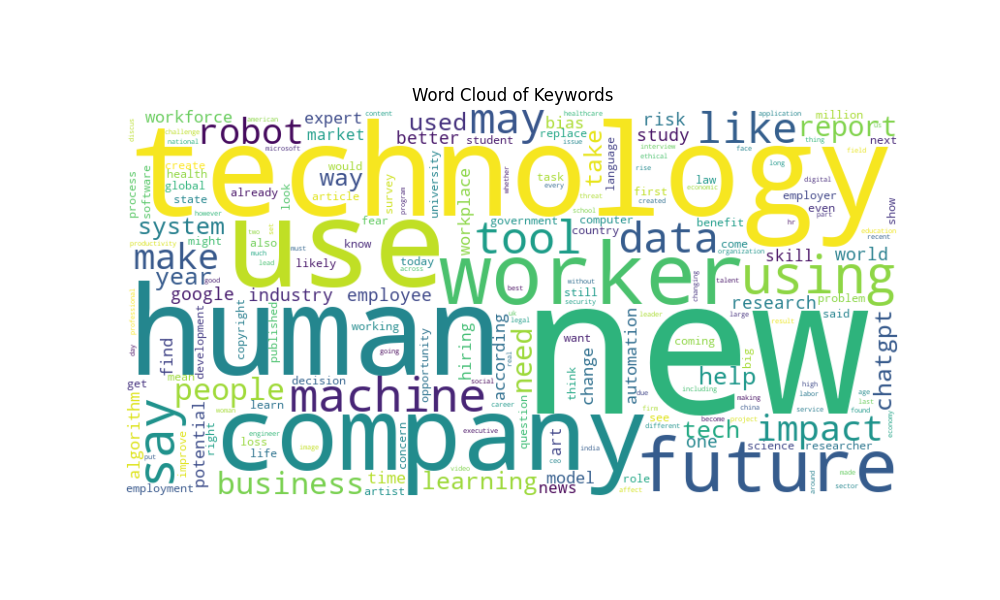
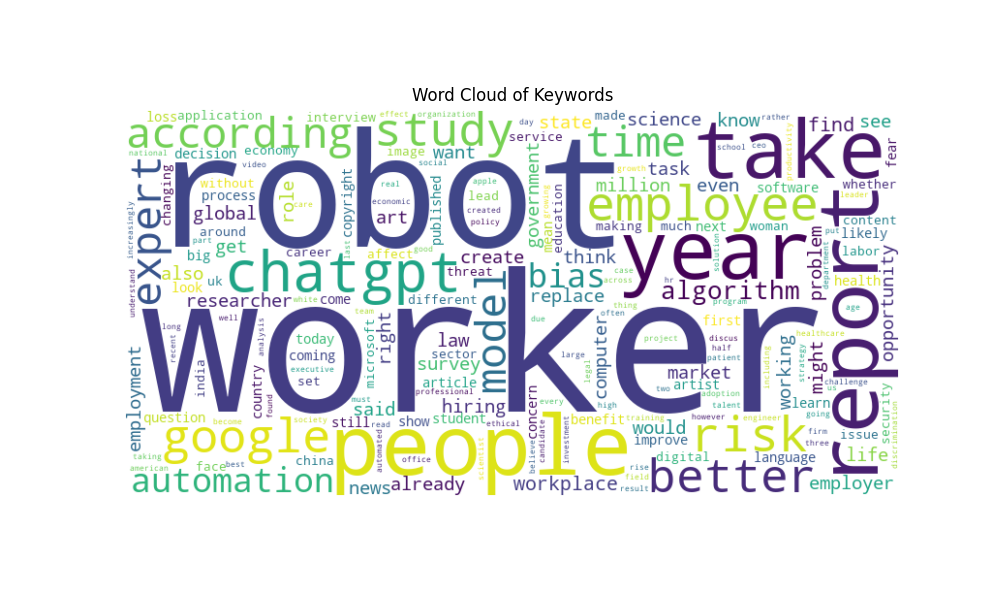
new visuals

diff --git a/AEI AI Sentiment Analysis/Keyword Visualization by Sentiment.py b/AEI AI Sentiment Analysis/Keyword Visualization by Sentiment.py
@@ -3,50 +3,13 @@
 import os
 import pandas as pd
 from LanguageAnalyzer import keywordExtractor
+from collections import Counter
 
 # visualization for flair:
 
-# keywordextractor = keywordExtractor()
-# 
-# Directory = 'flair-sentiment-en'
-# 
-# files = []
-# for file in os.listdir(Directory):
-#     if file.endswith('.csv'):
-#         file_path = os.path.join(Directory,file)
-#         files.append(file_path)
-# 
-# sorted_files = sorted(files)
-# 
-# # conducting keyword analysis
-# 
-# # compiling articles according to sentiment
-# compiled_positive_list = []
-# compiled_negative_list = []
-# 
-# for file in sorted_files:
-#     df = pd.read_csv(file)
-#     positive_article_list = []
-#     negative_article_list = []
-#     for row in df.iterrows():
-#         if row[1]['Sentiment'] == 'positive':
-#             positive_article_list.append(str(row[1]['Preprocessed Text']))
-#         else:
-#             negative_article_list.append(str(row[1]['Preprocessed Text']))
-#     compiled_positive_list.extend(positive_article_list)
-#     compiled_negative_list.extend(negative_article_list)
-# 
-# exclude_phrase = ['artificial intelligence', 'ai', 'u', 'artificial', 'intelligence', 'generative', 'work','job', 'nan', 'could', 'many']
-# positive_graph = '/Users/LindaSong/Desktop/AI-workforce-Sentiment-Semantic-Analysis/keyword by sentiment/flair positive.png'
-# negative_graph = '/Users/LindaSong/Desktop/AI-workforce-Sentiment-Semantic-Analysis/keyword by sentiment/flair negative.png'
-# keywordextractor.visualize_key_concept_sklearn_2(compiled_positive_list, exclude_phrase, positive_graph)
-# keywordextractor.visualize_key_concept_sklearn_2(compiled_negative_list, exclude_phrase, negative_graph)
-
-
-# spacy:
 keywordextractor = keywordExtractor()
 
-Directory = 'ex-sentiment-en'
+Directory = 'flair-sentiment-en'
 
 files = []
 for file in os.listdir(Directory):
@@ -61,28 +24,72 @@ sorted_files = sorted(files)
 # compiling articles according to sentiment
 compiled_positive_list = []
 compiled_negative_list = []
-compiled_neutral_list = []
+overall_keyword_freq = Counter()
 
 for file in sorted_files:
     df = pd.read_csv(file)
     positive_article_list = []
     negative_article_list = []
-    neutral_article_list = []
     for row in df.iterrows():
         if row[1]['Sentiment'] == 'positive':
             positive_article_list.append(str(row[1]['Preprocessed Text']))
-        elif row[1]['Sentiment'] == 'negative':
-            negative_article_list.append(str(row[1]['Preprocessed Text']))
         else:
-            neutral_article_list.append(str(row[1]['Preprocessed Text']))
+            negative_article_list.append(str(row[1]['Preprocessed Text']))
     compiled_positive_list.extend(positive_article_list)
     compiled_negative_list.extend(negative_article_list)
-    compiled_neutral_list.extend(neutral_article_list)
+    for article in df['Preprocessed Text'].astype(str):
+      overall_keyword_freq.update(article.split())
 
-exclude_phrase = ['artificial intelligence', 'ai', 'u', 'artificial', 'intelligence', 'generative', 'work','job', 'nan', 'could', 'many', 'use','way']
-positive_graph = '/Users/LindaSong/Desktop/AI-workforce-Sentiment-Semantic-Analysis/keyword by sentiment/spacy positive.png'
-negative_graph = '/Users/LindaSong/Desktop/AI-workforce-Sentiment-Semantic-Analysis/keyword by sentiment/spacy negative.png'
-neutral_graph =  '/Users/LindaSong/Desktop/AI-workforce-Sentiment-Semantic-Analysis/keyword by sentiment/spacy neural.png'
-keywordextractor.visualize_key_concept_sklearn_2(compiled_positive_list, exclude_phrase, positive_graph)
-keywordextractor.visualize_key_concept_sklearn_2(compiled_negative_list, exclude_phrase, negative_graph)
-keywordextractor.visualize_key_concept_sklearn_2(compiled_neutral_list, exclude_phrase, neutral_graph)
+exclude_phrase = ['artificial intelligence', 'ai', 'u', 'artificial', 'intelligence', 'generative', 'work', 'nan', 'could', 'many', 'may', 'say','used', 'one', 'like']
+positive_graph = '/Users/LindaSong/Desktop/AI-workforce-Sentiment-Semantic-Analysis/keyword by sentiment/flair positive.png'
+negative_graph = '/Users/LindaSong/Desktop/AI-workforce-Sentiment-Semantic-Analysis/keyword by sentiment/flair negative.png'
+keywordextractor.visualize_key_concept_sklearn_without_common(compiled_positive_list, exclude_phrase, positive_graph, overall_keyword_freq)
+keywordextractor.visualize_key_concept_sklearn_without_common(compiled_negative_list, exclude_phrase, negative_graph, overall_keyword_freq)
+
+
+# spacy:
+# keywordextractor = keywordExtractor()
+# 
+# Directory = 'ex-sentiment-en'
+# 
+# files = []
+# for file in os.listdir(Directory):
+#     if file.endswith('.csv'):
+#         file_path = os.path.join(Directory,file)
+#         files.append(file_path)
+# 
+# sorted_files = sorted(files)
+# 
+# # conducting keyword analysis
+# 
+# # compiling articles according to sentiment
+# compiled_positive_list = []
+# compiled_negative_list = []
+# compiled_neutral_list = []
+# overall_keyword_freq = Counter()
+# 
+# for file in sorted_files:
+#     df = pd.read_csv(file)
+#     positive_article_list = []
+#     negative_article_list = []
+#     neutral_article_list = []
+#     for row in df.iterrows():
+#         if row[1]['Sentiment'] == 'positive':
+#             positive_article_list.append(str(row[1]['Preprocessed Text']))
+#         elif row[1]['Sentiment'] == 'negative':
+#             negative_article_list.append(str(row[1]['Preprocessed Text']))
+#         else:
+#             neutral_article_list.append(str(row[1]['Preprocessed Text']))
+#     compiled_positive_list.extend(positive_article_list)
+#     compiled_negative_list.extend(negative_article_list)
+#     compiled_neutral_list.extend(neutral_article_list)
+#     for article in df['Preprocessed Text'].astype(str):
+#         overall_keyword_freq.update(article.split())
+# 
+# exclude_phrase = ['artificial intelligence', 'ai', 'u', 'artificial', 'intelligence', 'generative', 'work', 'nan', 'could', 'many', 'use','way', 'year', 'make', 'one', 'used']
+# positive_graph = '/Users/LindaSong/Desktop/AI-workforce-Sentiment-Semantic-Analysis/keyword by sentiment/spacy positive.png'
+# negative_graph = '/Users/LindaSong/Desktop/AI-workforce-Sentiment-Semantic-Analysis/keyword by sentiment/spacy negative.png'
+# neutral_graph =  '/Users/LindaSong/Desktop/AI-workforce-Sentiment-Semantic-Analysis/keyword by sentiment/spacy neural.png'
+# keywordextractor.visualize_key_concept_sklearn_without_common(compiled_positive_list, exclude_phrase, positive_graph, overall_keyword_freq)
+# keywordextractor.visualize_key_concept_sklearn_without_common(compiled_negative_list, exclude_phrase, negative_graph, overall_keyword_freq)
+# keywordextractor.visualize_key_concept_sklearn_without_common(compiled_neutral_list, exclude_phrase, neutral_graph, overall_keyword_freq)

diff --git a/AEI AI Sentiment Analysis/LanguageAnalyzer.py b/AEI AI Sentiment Analysis/LanguageAnalyzer.py
@@ -23,6 +23,7 @@ from flair.data import Sentence
 from transformers import pipeline
 from transformers import DistilBertTokenizer
 import numpy as np
+from collections import Counter
 
 import torch
 print(torch.backends.mps.is_available())
@@ -159,6 +160,51 @@ class keywordExtractor:
 
         # Filter out specific phrases
         filtered_ngrams = {ngram: count for ngram, count in ngram_counts.items() if ngram not in exclude_phrases}
+
+        # Optional: Filter out long phrases (e.g., keep only unigrams and bigrams)
+        filtered_ngrams = {ngram: count for ngram, count in filtered_ngrams.items() if len(ngram.split()) <= 2}
+
+        # Get the 20 most common ngrams after filtering
+        common_ngrams = sorted(filtered_ngrams.items(), key=lambda x: x[1], reverse=True)[:20]
+        ngrams, counts = zip(*common_ngrams)
+
+        # Bar plot
+        plt.figure(figsize=(10, 6))
+        sns.barplot(x=list(counts), y=list(ngrams))
+        plt.xlabel('Frequency')
+        plt.ylabel('Keywords')
+        plt.title('Top Keywords in News Articles')
+
+        # Wordcloud visualization
+        wordcloud = WordCloud(width=800, height=400, background_color='white').generate_from_frequencies(filtered_ngrams)
+        plt.figure(figsize=(10, 6))
+        plt.imshow(wordcloud, interpolation='bilinear')
+        plt.axis('off')
+        plt.title('Word Cloud of Keywords')
+        plt.savefig(graph_path)
+
+    def visualize_key_concept_sklearn_without_common(self, processed_articles, exclude_phrases, graph_path, overall_keyword_freq):
+        # Initialize exclude_phrases if not provided
+        if exclude_phrases is None:
+            exclude_phrases = []
+
+        # Flatten processed articles into strings
+        flattened_articles = processed_articles
+
+        # Initialize TfidfVectorizer to get unigrams and bigrams
+        vectorizer = TfidfVectorizer(max_df=0.7, max_features=10000, ngram_range=(1, 2))
+        X = vectorizer.fit_transform(flattened_articles)
+
+        # Frequency analysis for unigrams and bigrams
+        all_ngrams = [ngram for article in flattened_articles for ngram in article.split()]
+        ngram_counts = Counter(all_ngrams)
+
+        # Filter out specific phrases
+        filtered_ngrams = {ngram: count for ngram, count in ngram_counts.items() if ngram not in exclude_phrases}
+
+        # Filter out common keywords by comparing with overall frequencies
+        filtered_ngrams = {ngram: count for ngram, count in filtered_ngrams.items()
+                           if ngram not in overall_keyword_freq or abs(overall_keyword_freq[ngram] - count) <= 300}
 
         # Optional: Filter out long phrases (e.g., keep only unigrams and bigrams)
         filtered_ngrams = {ngram: count for ngram, count in filtered_ngrams.items() if len(ngram.split()) <= 2}
